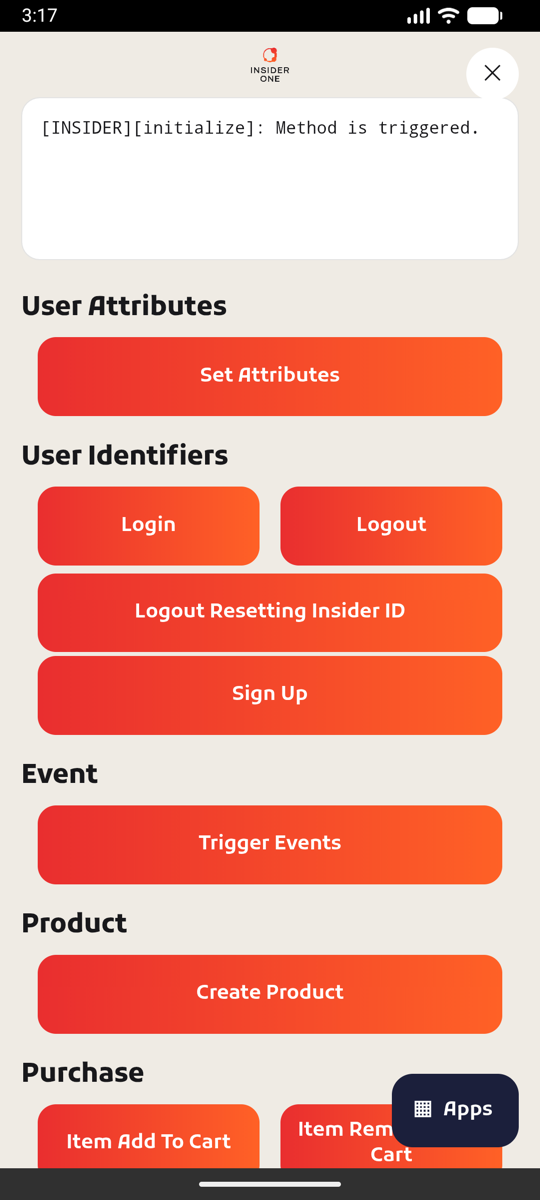
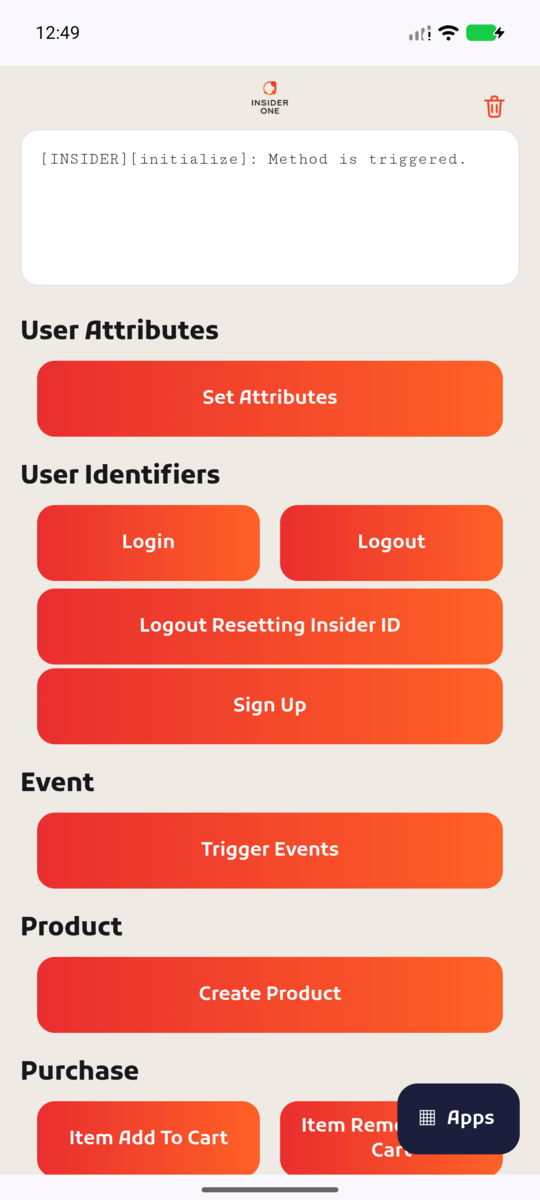
docs(MOB-31801): rewrite the README in the SwiftDemo and KotlinDemo format
SDK version badges (npm, Insider-iOS-SDK on SPM, Android Maven), the InsiderOne logo and the Insider, Documentation and MIT License links, then requirements, project structure, getting started, SDK initialization, push for both platforms, testing and license, all for the Cordova demo. The preview screenshots show the renamed app with the trash clear button; the old logo image is no longer used.

diff --git a/README.md b/README.md
@@ -1,24 +1,20 @@
-# Insider Cordova Demo
+# Insider Cordova SDK Example
+
+[![npm](https://img.shields.io/npm/v/cordova-plugin-insider.svg?label=cordova-plugin-insider&color=blue)](https://www.npmjs.com/package/cordova-plugin-insider)
+[![Swift Package Manager](https://img.shields.io/github/v/tag/useinsider/Insider-iOS-SDK?label=Insider-iOS-SDK%20%28SPM%29&color=blue)](https://github.com/useinsider/Insider-iOS-SDK)
+[![Maven Version](https://img.shields.io/badge/dynamic/xml?url=https%3A%2F%2Fmobilesdk.useinsider.com%2Fandroid%2Fcom%2Fuseinsider%2Finsider%2Fmaven-metadata.xml&query=%2F%2Fmetadata%2Fversioning%2Frelease&label=insider&color=blue)](https://mobilesdk.useinsider.com/android/com/useinsider/insider/)
 
 <p align="center">
-  <img src="assets/insider-logo-read-me.jpg">
+  <img src="https://github.com/user-attachments/assets/47c3c8d8-9d33-40dd-938f-bc276ea7d560" width="400">
+</p>
 
-  <table align="center">
-    <tr>
-      <td><a href="https://useinsider.com/"> Insider </a></td>
-      <td><a href="https://www.npmjs.com/package/cordova-plugin-insider/"> NPM JS cordova-plugin-insider </a></td>
-      <td><a href="https://academy.useinsider.com/docs/cordova-integration"> InsiderAcademy </a></td>
-    </tr>
-  </table>
-</p>  
+<p align="center">
+  <a href="https://insiderone.com/">Insider</a> &bull;
+  <a href="https://academy.insiderone.com/docs/cordova-integration">Documentation</a> &bull;
+  <a href="LICENSE">MIT License</a>
+</p>
 
-## Description
-
-This Demo contains simple methods that you can use with the Insider SDK. The home page follows the shared Insider demo design (FlutterDemo):
-
-- an output console under the logo bar: every button writes the SDK call's result (or error) there, so you can check a call without Xcode or logcat; the round button in the logo bar clears it,
-- one section per SDK area (user, events, products, purchase, Smart Recommender, page visits, GDPR, App Cards, Content Optimizer, geofence, in-app messages, wishlist, reinit and more),
-- an **Apps** button that opens the mini-apps sheet; **App Cards** opens the App Cards inbox page.
+This project demonstrates how to integrate the [Insider Cordova SDK](https://academy.insiderone.com/docs/cordova-integration) (`cordova-plugin-insider`) into a Cordova application for **iOS** and **Android**. It includes a fully working example with an output console for every SDK call, the iOS notification extensions on **Swift Package Manager**, Android push through Firebase Cloud Messaging and Huawei Messaging Service, and an App Cards inbox.
 
 ## Preview
 
@@ -35,42 +31,185 @@ This Demo contains simple methods that you can use with the Insider SDK. The hom
   </tr>
 </table>
 
+- An output console under the logo bar: every button writes the SDK call's result (or error) there, so you can check a call without Xcode or logcat. The trash button in the logo bar clears it.
+- One section per SDK area: user attributes and identifiers, events, products, purchases, Smart Recommender, page visits, GDPR, App Cards, Content Optimizer, geofence, in-app messages, wishlist, reinit and more.
+- An **Apps** button that opens the mini-apps sheet; **App Cards** opens the App Cards inbox page.
+
 ## Requirements
 
-- Node.js 22 and the Cordova CLI 12 (`npm install -g cordova@12`)
-- `cordova-ios` ^8.2.0 and `cordova-android` ^15.1.0 (installed by `npm install`)
-- `cordova-plugin-insider` ^4.2.0 from npm
-- iOS: Xcode. The Insider SDK comes through Swift Package Manager; no Insider pod is used. Cordova still runs `pod install` on its generated Podfile, so CocoaPods must be installed.
-- Android: JDK 17 and the Android SDK
+| Requirement | Minimum |
+|---|---|
+| Node.js | 20.17.0 or 22.9.0+ (CI uses 22) |
+| Cordova CLI | 12 |
+| cordova-ios | 8.2.0 |
+| cordova-android | 15.1.0 |
+| cordova-plugin-insider | 4.2.0 |
+| iOS | 15.0 (required by InsiderMobile 16.5.1) |
+| Xcode | 16.0+ |
+| Android | API 24 (compile and target SDK 36) |
+| JDK | 17 |
+| Gradle | 8.14.2 |
 
-## Installation
+CocoaPods must be installed for iOS: Cordova still runs `pod install` on the Podfile it generates, although no Insider pod is used.
 
-Install all npm packages by running the `npm install` command in the home directory.
+## Project Structure
 
-Replace the partner name (`PARTNER_NAME` at the top of `www/js/index.js`) and the app group (in `initInsider`, same file) with your info.
+```
+www/                                # The web app Cordova copies into both platforms
+├── index.html                      # Home: output console and one section per SDK area
+├── app-cards.html                  # App Cards inbox
+├── js/index.js                     # Insider.init and every button's SDK call
+├── js/app-cards.js                 # App Cards page logic
+└── css/                            # Design tokens and page styles
+config.xml                          # App identity, icons, iOS deployment target, App Group, URL scheme, hooks
+res/icons/                          # App icon sources (iOS light/dark/tinted, Android adaptive)
+scripts/
+├── ios-extension-targets.rb        # Adds the notification extensions and their SPM library to the Xcode project
+└── ios-extension-check.js          # after_prepare hook: warns when the extensions are missing
+platforms/
+├── ios/
+│   ├── App.xcworkspace             # Open this in Xcode (target App, product CordovaDemo)
+│   ├── InsiderNotificationService/ # Notification Service Extension
+│   └── InsiderNotificationContent/ # Notification Content Extension (with InsiderInterface.storyboard)
+└── android/                        # Gradle project (applicationId com.useinsider.ecommerce)
+test/                               # Jest tests (jsdom) for the web app and the native action names
+ci/fixtures/                        # Fake Firebase config used by CI builds
+```
 
-Run the unit tests with `npm test`.
+The two `platforms/` folders are committed with the project's native changes (signing, entitlements, notification extensions), so they are not regenerated from scratch on every build.
 
-Note: Can easily find the warnings added as comments by searching the `FIXME-INSIDER` key in the project and you can quickly make the necessary arrangements for the project.
+## Getting Started
 
-### Android
+### 1. Clone the Repository
 
-1. Add `google-services.json` and `agconnect-services.json` to `platforms/android/app` folder. The Android application ID is `com.useinsider.ecommerce` (`android-packageName` in `config.xml`), so `google-services.json` must contain a client for that package or the build fails with "No matching client found".
-2. Debug builds use the default Android debug keystore. For release builds, add your keystore file to `platforms/android/app` folder and replace `signingConfigs` attributes in `platforms/android/app/build.gradle` file with your info.
-3. Replace manifestPlaceholders -> partner value with your partner name in `platforms/android/app/build.gradle` file. (This step is important to add test device with QR or Email in the panel.)
-4. Cordova needs Gradle on your `PATH` (or Android Studio installed) to generate the Gradle wrapper. Set `ANDROID_HOME` and a JDK 17 `JAVA_HOME`.
-5. And run project with `cordova run android` command.
+```bash
+git clone https://github.com/useinsider/CordovaDemo.git
+cd CordovaDemo
+```
 
-### iOS
+### 2. Install Dependencies
 
-1. Replace widget id with your bundle identifier in `config.xml`.
-2. The deployment target is 15.0 (required by InsiderMobile 16.5.1). Xcode resolves the Insider iOS SDK package on the first build. The app target takes `InsiderMobileAdvancedNotification` from that package for the two notification extensions, which link nothing themselves, and `InsiderNotificationContent` carries its own copy of `InsiderInterface.storyboard` (Inherit Module From Target), as the [Cordova Swift Package Manager guide](https://academy.insiderone.com/docs/migrate-cordova-ios-from-cocoapods-to-swift-package-manager) describes.
-3. Open `platforms/ios/App.xcworkspace` with Xcode and check team, app group and bundle identifier for all targets.
-   If you re-create the platform (`cordova platform rm ios && cordova platform add ios`), restore `platforms/ios/InsiderNotificationService` and `platforms/ios/InsiderNotificationContent` from git and run `ruby scripts/ios-extension-targets.rb`. It adds the two extension targets, the `InsiderMobileAdvancedNotification` library on the app target and the storyboard back to the Xcode project; `cordova prepare` warns while they are missing.
-4. Replace `yourpartnername` in the `insider` URL scheme (`insideryourpartnername`, `config.xml` → `platform ios` → `CFBundleURLTypes`) with your partner name, then run `cordova prepare ios`. (This step is important to add test device with QR or Email in the panel.)
-5. The app group is `group.com.useinsider.mobile-ios`. To use your own, change it in `www/js/index.js` (`initInsider`), in the `APP_GROUP` constant of `InsiderNotificationService/NotificationService.m` and `InsiderNotificationContent/NotificationViewController.m`, in the two extension `.entitlements` files and in the `com.apple.security.application-groups` entries of `config.xml`.
-6. Run project with `cordova run ios` command. If the default simulator is not installed, pick one explicitly: `cordova run ios --emulator --target="iPhone-17"` (list them with `cordova run ios --list`). 
+```bash
+npm install -g cordova@12
+npm install
+```
+
+`npm install` installs `cordova-ios`, `cordova-android` and `cordova-plugin-insider`. On iOS, Xcode resolves the Insider iOS SDK package on the first build; there is no `pod install` step for Insider.
+
+### 3. Configure Your App
+
+Search the project for `FIXME-INSIDER` to find every value to replace.
+
+| What | Where |
+|---|---|
+| Partner name | `PARTNER_NAME` at the top of `www/js/index.js` |
+| Partner name (Android test device and deep links) | `manifestPlaceholders` → `partner` in `platforms/android/app/build.gradle` |
+| Partner name (iOS test device and deep links) | the `insideryourpartnername` URL scheme in `config.xml` → `platform ios` → `CFBundleURLTypes`; replace `yourpartnername` |
+| iOS bundle identifier | `widget id` in `config.xml` (default `com.useinsider.demo.external`) |
+| Android application ID | `android-packageName` in `config.xml` (default `com.useinsider.ecommerce`) |
+| App Group | `group.com.useinsider.mobile-ios`: `initInsider` in `www/js/index.js`, `APP_GROUP` in both extensions, the two extension `.entitlements` files and the `com.apple.security.application-groups` entries in `config.xml` |
+
+Run `cordova prepare` after changing `config.xml`.
+
+#### Android
+
+1. Add `google-services.json` (Firebase) and, for Huawei devices, `agconnect-services.json` to `platforms/android/app`. `google-services.json` must contain a client for the application ID, or the build fails with "No matching client found".
+2. Debug builds use the default Android debug keystore. For release builds, add your keystore to `platforms/android/app` and replace `signingConfigs` in `platforms/android/app/build.gradle`.
+3. Cordova needs Gradle on your `PATH` (or Android Studio installed) to generate the Gradle wrapper. Set `ANDROID_HOME` and a JDK 17 `JAVA_HOME`.
+
+#### iOS
+
+1. Open `platforms/ios/App.xcworkspace` in Xcode and check the team, App Group and bundle identifier of all three targets (`App`, `InsiderNotificationService`, `InsiderNotificationContent`).
+2. Push notifications need the Push Notifications capability (`aps-environment` is already in the app entitlements) and a push certificate or key for your bundle identifier in the Insider panel.
+
+### 4. Run
+
+```bash
+cordova run android
+cordova run ios
+```
+
+If the default simulator is not installed, pick one explicitly: `cordova run ios --emulator --target="iPhone-17"` (list them with `cordova run ios --list`).
+
+## SDK Initialization
+
+The SDK is initialized on `deviceready` in `www/js/index.js`:
+
+```javascript
+async function initInsider() {
+    await window.Insider.init(PARTNER_NAME, 'group.com.useinsider.mobile-ios',
+        (callback) => {
+            switch ((callback.result || {}).type) {
+                case window.Insider.callbackType.NOTIFICATION_OPEN:
+                    logInsider('NOTIFICATION_OPEN', callback.result || {});
+                    break;
+                case window.Insider.callbackType.SESSION_STARTED:
+                    logInsider('SESSION_STARTED', callback.result || {});
+                    break;
+            }
+        },
+    );
+
+    await window.Insider.registerWithQuietPermission(false);
+    window.Insider.startTrackingGeofence();
+    if (window.cordova.platformId === 'ios') {
+        window.Insider.setActiveForegroundPushView();
+    }
+    window.Insider.enableLocationCollection(true);
+    window.Insider.enableIpCollection(true);
+    window.Insider.enableCarrierCollection(true);
+}
+```
+
+The callback receives the SDK's events in `callback.result`; the demo writes push opens (`NOTIFICATION_OPEN`) and session starts (`SESSION_STARTED`) to the output console.
+
+`registerWithQuietPermission(false)` shows the system notification permission prompt on iOS; pass `true` for provisional (quiet) authorization. It does nothing on Android.
+
+### Test Device
+
+Add the app as a test device from the panel with the QR code or the email link. The link opens `insider<partner>://test_device/<token>`, so the partner name must be set in all three places listed in [Configure Your App](#3-configure-your-app).
+
+## Push Notifications
+
+### iOS: Notification Extensions
+
+The SDK uses two notification extensions:
+
+- **Notification Service Extension** (`platforms/ios/InsiderNotificationService`) downloads rich media (images, videos) before the notification is shown.
+- **Notification Content Extension** (`platforms/ios/InsiderNotificationContent`) shows the interactive carousel of expanded push notifications.
+
+Both use Swift Package Manager, as the [Cordova Swift Package Manager guide](https://academy.insiderone.com/docs/migrate-cordova-ios-from-cocoapods-to-swift-package-manager) describes:
+
+- The `InsiderMobileAdvancedNotification` library of the [Insider iOS SDK package](https://github.com/useinsider/Insider-iOS-SDK) is added to the **App** target. The extensions link nothing themselves; Xcode embeds the framework in the app, where they find it.
+- `InsiderNotificationContent` carries its own copy of `InsiderInterface.storyboard`, with **Inherit Module From Target** checked so that the runtime finds `NotificationViewController`.
+- The app and both extensions share the `group.com.useinsider.mobile-ios` App Group.
+
+#### Re-creating the iOS platform
+
+`cordova platform rm ios && cordova platform add ios` re-creates the Xcode project without the extension targets; `cordova prepare` then warns that they are missing. To add them back:
+
+```bash
+git checkout -- platforms/ios/InsiderNotificationService platforms/ios/InsiderNotificationContent
+ruby scripts/ios-extension-targets.rb
+cordova prepare ios
+```
+
+The script adds both extension targets, the `InsiderMobileAdvancedNotification` library on the app target and the storyboard. It is safe to run again on an existing project. Re-apply the other native changes of `platforms/ios` (app delegate, Info.plist keys, signing) from git as well.
+
+### Android: Firebase Cloud Messaging and Huawei Messaging Service
+
+`cordova-plugin-insider` adds the Firebase Messaging and HMS dependencies, and the Insider Android SDK registers its own `InsiderFirebaseMessagingService` and `InsiderHuaweiMessagingService`, so the app needs no messaging service of its own. The plugin enables the Google Services Gradle plugin, which reads `google-services.json` at build time, and its install hook adds the Huawei AGConnect Gradle plugin for `agconnect-services.json`.
+
+The demo does not request runtime permissions on Android. Grant notifications (`POST_NOTIFICATIONS`, Android 13+) and location (for geofence tracking) in the app's system settings before testing push or geofences.
+
+## Testing
+
+```bash
+npm test
+```
+
+Jest runs the web app in jsdom with a faked `cordova.exec`, and a native action test checks that every action name the JS calls exists in the plugin's Android and iOS sources. The **Tests** workflow (`.github/workflows/run-tests.yml`) runs these unit tests and builds both platforms on pull requests and pushes to `main`.
 
 ## License
 
-This demo is released under the MIT License (see `LICENSE`). The Apache Cordova platform code that Cordova copies into `platforms/` (for example `platforms/android/CordovaLib` and `platforms/ios/packages/cordova-ios`) keeps its own Apache License 2.0 notices.
+This project is licensed under the MIT License. See the [LICENSE](LICENSE) file for details. The Apache Cordova platform code that Cordova copies into `platforms/` (for example `platforms/android/CordovaLib` and `platforms/ios/packages/cordova-ios`) keeps its own Apache License 2.0 notices.
